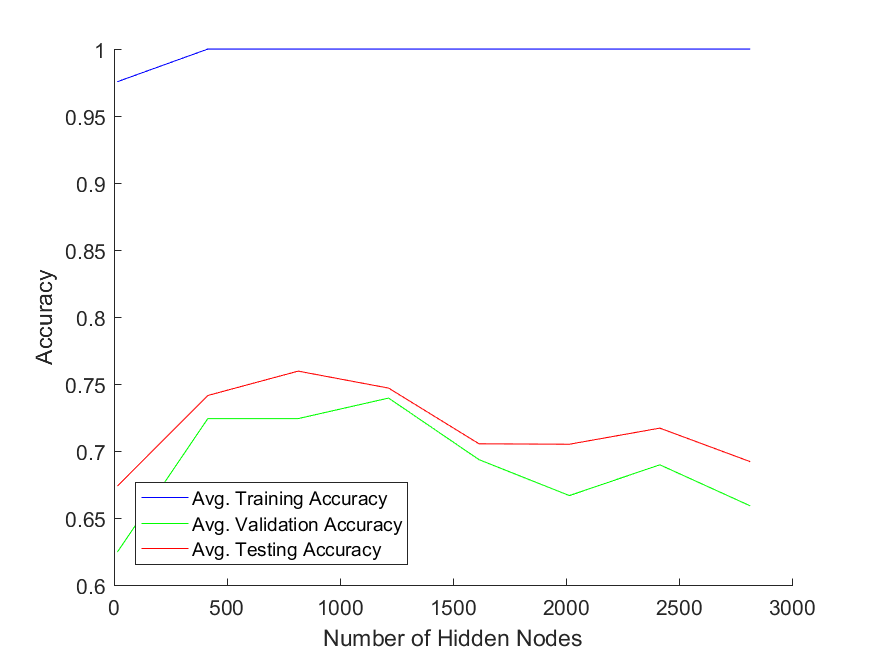
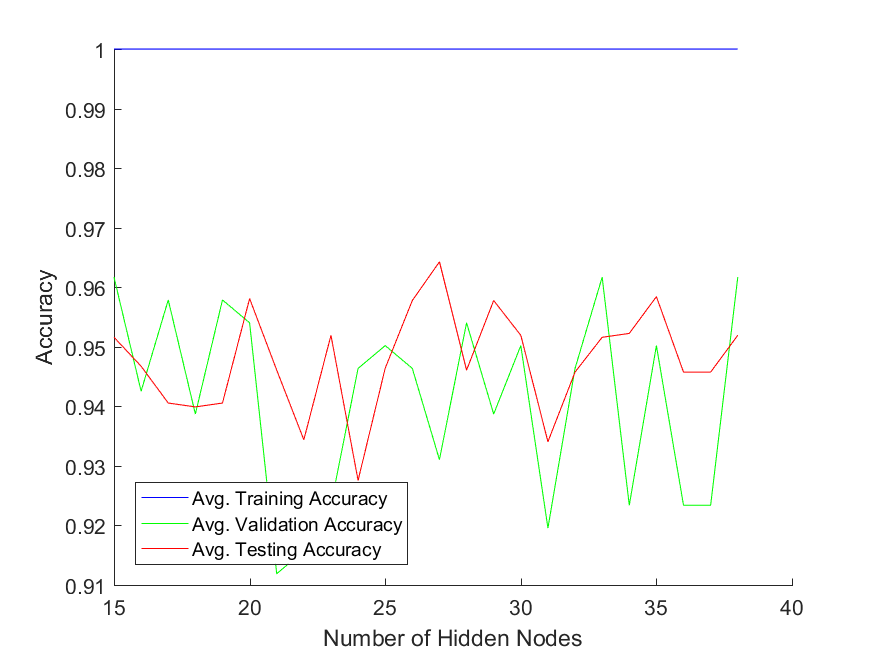
data

diff --git a/ANN/multi_class_ANN_param_tester.m b/ANN/multi_class_ANN_param_tester.m
@@ -118,9 +118,8 @@ projection_vectors = PCA(fields,percent_field_retention);
 num_pca_data_cols = size(projection_vectors,2);
 
 start_pt = 15;
-%end_pt = num_pca_data_cols;
-end_pt = image_size * image_size;
-num_hidden_nodes = start_pt:50:end_pt;
+end_pt = num_pca_data_cols;
+num_hidden_nodes = start_pt:1:end_pt;
 
 training_accuracies = zeros(numel(num_hidden_nodes),S + 1);
 validation_accuracies = zeros(numel(num_hidden_nodes),S+1);
@@ -128,8 +127,6 @@ testing_accuracies = zeros(numel(num_hidden_nodes),S + 1);
 
 hidden_nodes_test_ANN = ANN;
 hidden_nodes_test_ANN.percent_field_retention = 0.95;
-
-hidden_nodes_test_ANN.should_perform_PCA = false;
 
 for i=1:numel(num_hidden_nodes)
     num_hidden = num_hidden_nodes(i);
